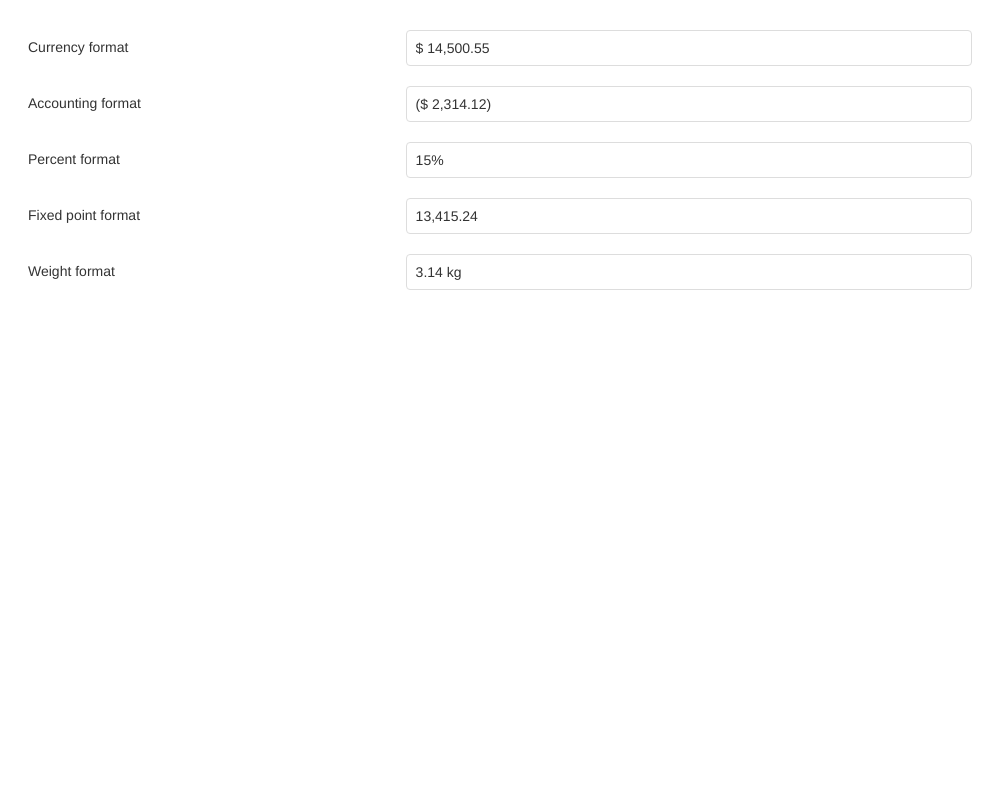
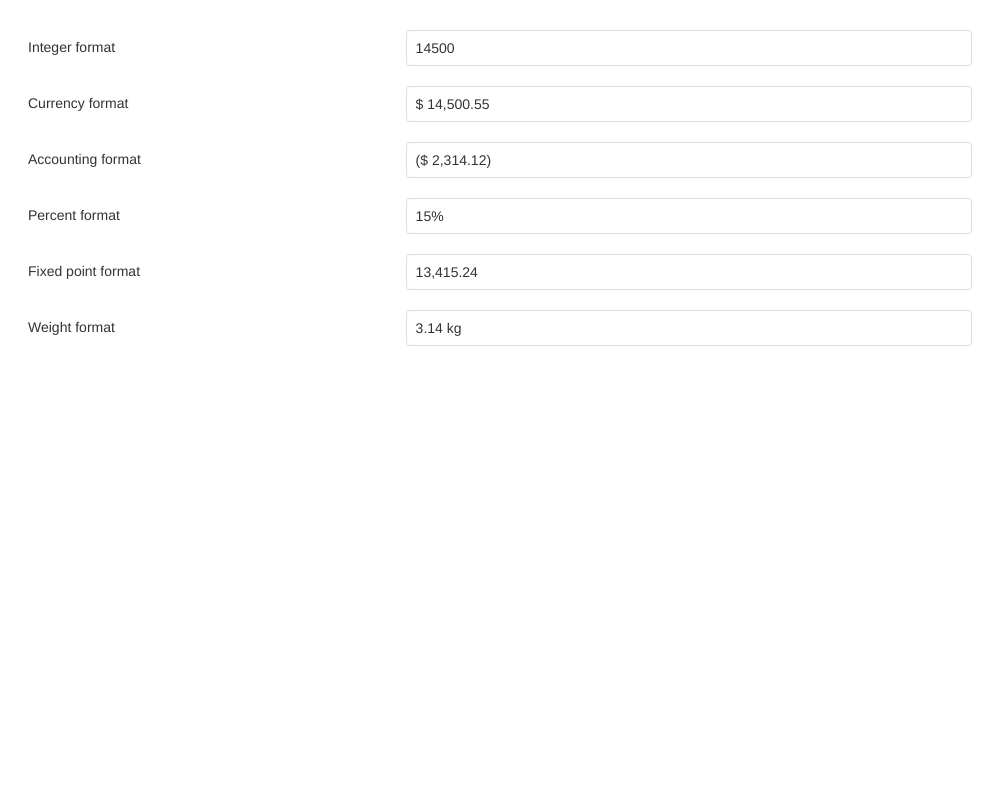
v23.1 Added integer format for NumberBox - Formatting demo (#2429)
* Added integer format for NumberBox

* Update etalon NumberBox-Formatting.png

* Lint fix

diff --git a/JSDemos/Demos/NumberBox/Formatting/React/App.js b/JSDemos/Demos/NumberBox/Formatting/React/App.js
@@ -7,6 +7,14 @@ class App extends React.Component {
       <div>
         <div className="dx-fieldset">
           <div className="dx-field">
+            <div className="dx-field-label">Integer format</div>
+            <div className="dx-field-value">
+              <NumberBox
+                format="#"
+                defaultValue={14500} />
+            </div>
+          </div>
+          <div className="dx-field">
             <div className="dx-field-label">Currency format</div>
             <div className="dx-field-value">
               <NumberBox

diff --git a/JSDemos/Demos/NumberBox/Formatting/jQuery/index.html b/JSDemos/Demos/NumberBox/Formatting/jQuery/index.html
@@ -15,6 +15,12 @@
     <div class="demo-container">
       <div class="dx-fieldset">
         <div class="dx-field">
+          <div class="dx-field-label">Integer format</div>
+          <div class="dx-field-value">
+            <div id="integer"></div>
+          </div>
+        </div>
+        <div class="dx-field">
           <div class="dx-field-label">Currency format</div>
           <div class="dx-field-value">
             <div id="currency"></div>

diff --git a/JSDemos/Demos/NumberBox/Formatting/Vue/App.vue b/JSDemos/Demos/NumberBox/Formatting/Vue/App.vue
@@ -2,6 +2,15 @@
   <div>
     <div class="dx-fieldset">
       <div class="dx-field">
+        <div class="dx-field-label">Integer format</div>
+        <div class="dx-field-value">
+          <DxNumberBox
+            :value="14500"
+            format="#"
+          />
+        </div>
+      </div>
+      <div class="dx-field">
         <div class="dx-field-label">Currency format</div>
         <div class="dx-field-value">
           <DxNumberBox

diff --git a/JSDemos/Demos/NumberBox/Formatting/Angular/app/app.component.html b/JSDemos/Demos/NumberBox/Formatting/Angular/app/app.component.html
@@ -1,5 +1,11 @@
 <div class="dx-fieldset">
   <div class="dx-field">
+    <div class="dx-field-label">Integer format</div>
+    <div class="dx-field-value">
+      <dx-number-box format="#" [value]="14500"></dx-number-box>
+    </div>
+  </div>
+  <div class="dx-field">
     <div class="dx-field-label">Currency format</div>
     <div class="dx-field-value">
       <dx-number-box format="$ #,##0.##" [value]="14500.55"></dx-number-box>

diff --git a/JSDemos/Demos/NumberBox/Formatting/jQuery/index.js b/JSDemos/Demos/NumberBox/Formatting/jQuery/index.js
@@ -1,4 +1,9 @@
 $(() => {
+  $('#integer').dxNumberBox({
+    format: '#',
+    value: 14500,
+  });
+
   $('#currency').dxNumberBox({
     format: '$ #,##0.##',
     value: 14500.55,
